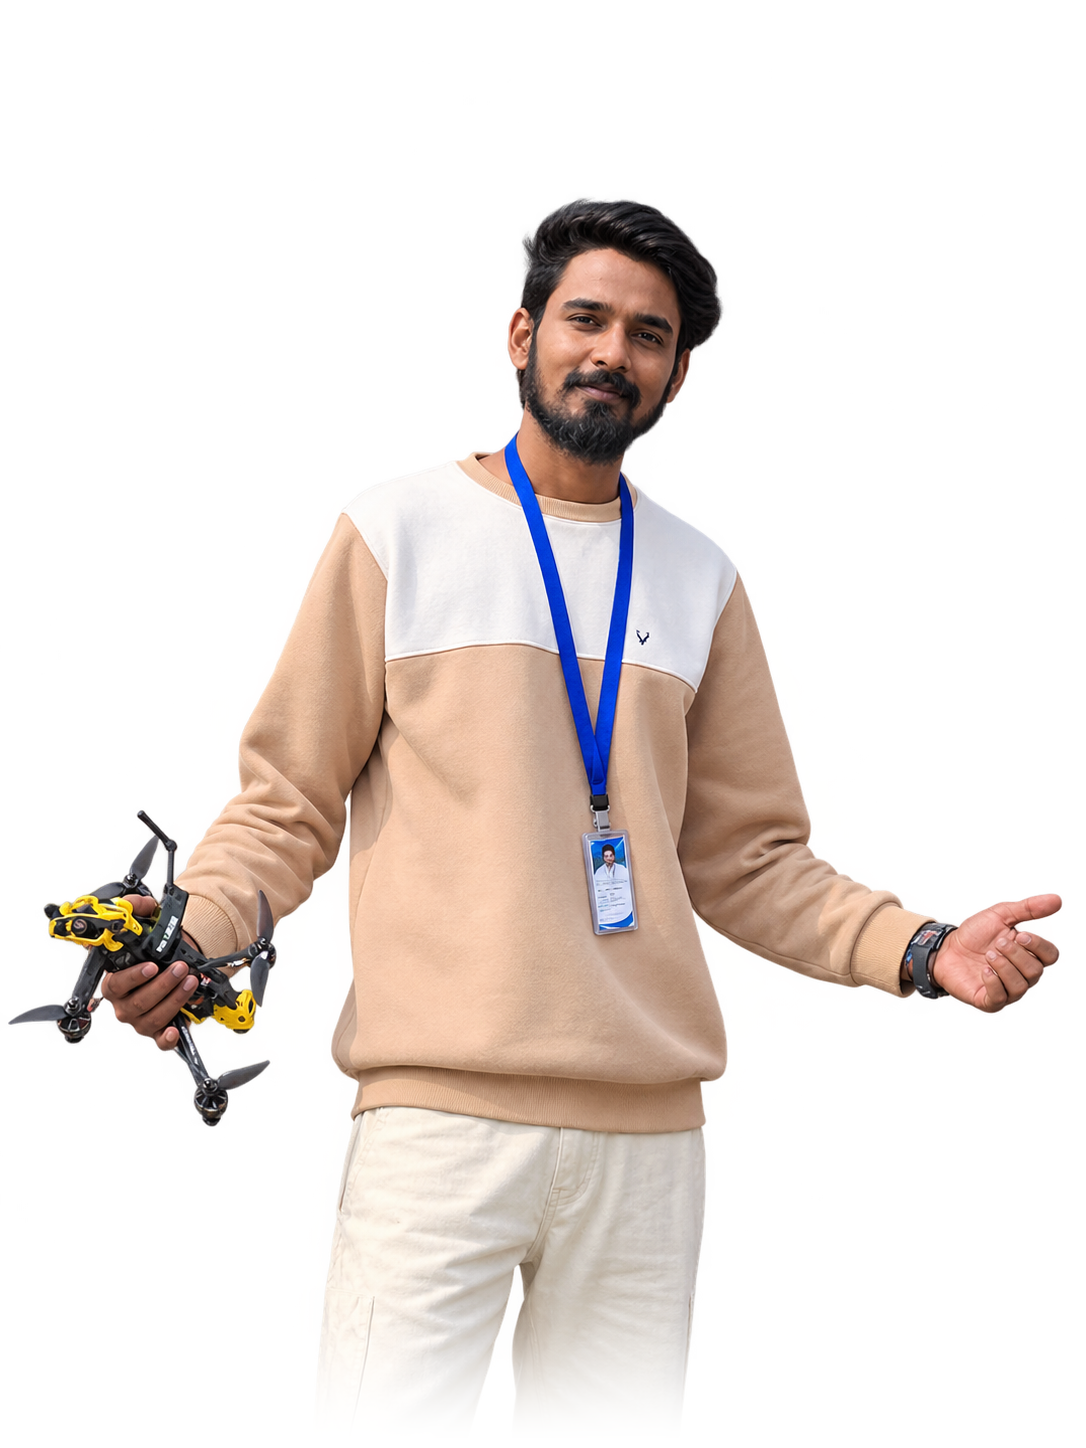
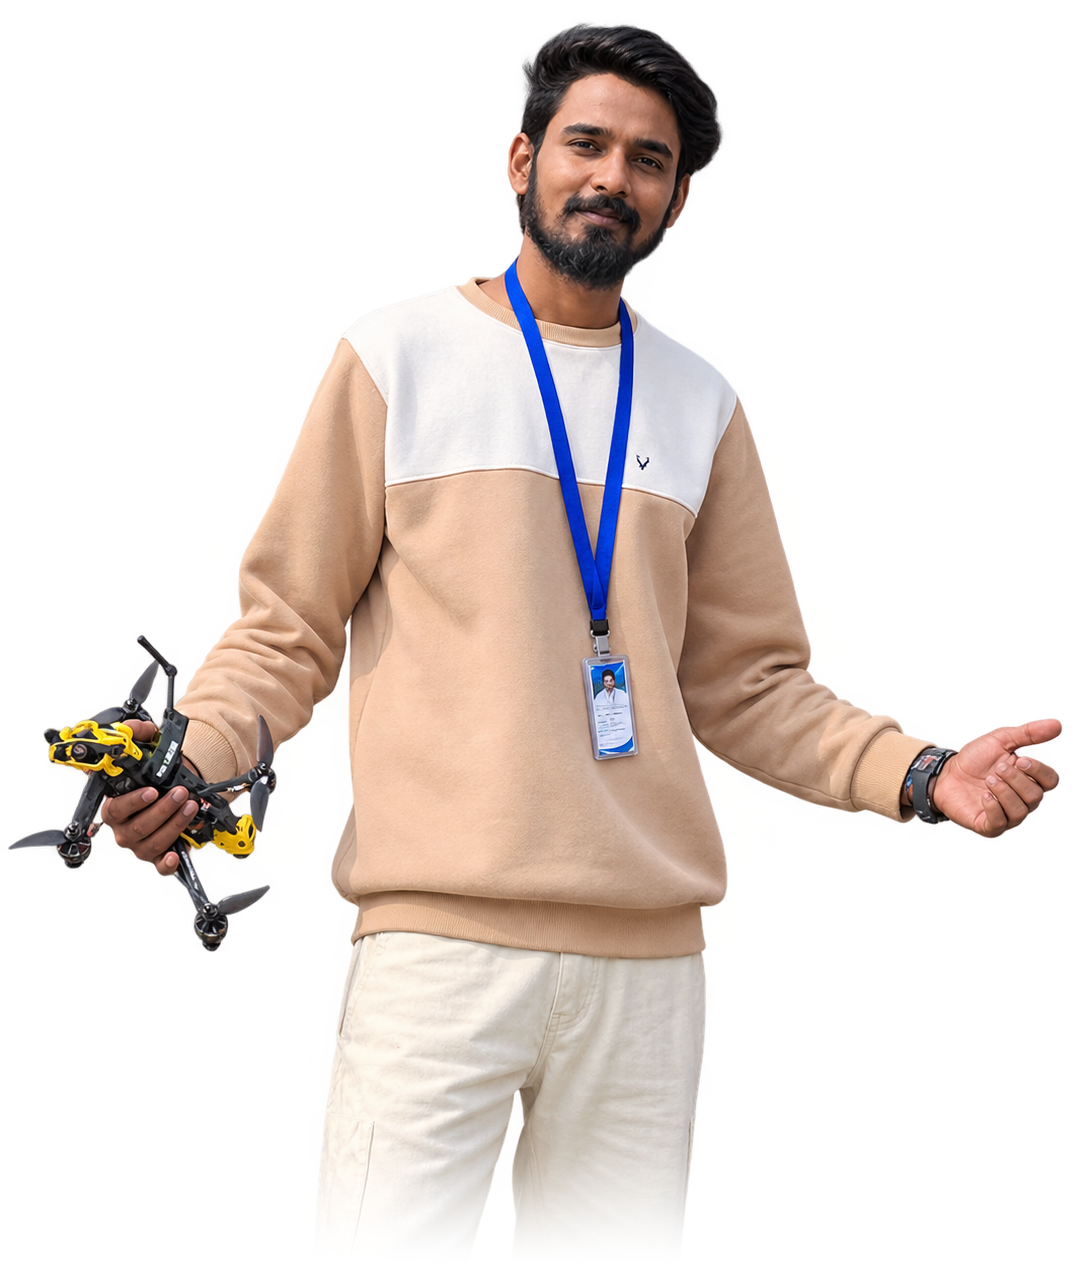
n

Changed region(s): [[0.0, 0.0, 0.9724, 0.9191], [0.6381, 0.8272, 0.6685, 0.8578], [0.395, 0.5208, 0.4254, 0.5515]]

diff --git a/assets/css/styles.css b/assets/css/styles.css
@@ -338,26 +338,32 @@ img {
   justify-self: center;
 }
 
-.home__split {
+.home__profession-1 {
   font-size: var(--h3-font-size);
-  font-weight: var(--font-regular);
   color: var(--first-color);
+  font-family: var(--second-font);
+  font-weight: var(--font-semi-bold);
+  line-height: 1.3;
 }
 
-.home__profession-1,
 .home__profession-2 {
   font-size: var(--bigger-font-size);
-  text-align: center;
-  overflow: hidden;
+  color: var(--title-color);
+  font-family: var(--second-font);
+  font-weight: var(--font-semi-bold);
+  line-height: 1.2;
 }
 
-.home__profession-1 {
-  position: relative;
-  color: var(--first-color);
+.home__description {
+  font-size: var(--small-font-size);
+  line-height: 1.6;
+  color: var(--text-color);
+  margin-top: 0.75rem;
 }
 
-.home__profession-2 {
-  transform: translateY(-0.5rem);
+.home__description b {
+  color: var(--title-color);
+  font-weight: var(--font-semi-bold);
 }
 
 .home__social {
@@ -1173,9 +1179,9 @@ img {
   }
 
   .home__container {
-    max-width: 1200px;
+    max-width: 1280px;
     width: 100%;
-    height: 740px;
+    height: 780px;
     margin-inline: auto;
     position: relative;
     display: flex;
@@ -1186,8 +1192,8 @@ img {
 
   .home__image {
     position: relative;
-    width: 440px;
-    height: 620px;
+    width: 580px;
+    height: 750px;
     margin: 0 auto;
     display: flex;
     justify-content: center;
@@ -1198,8 +1204,8 @@ img {
 
   .home__profile {
     width: auto;
-    max-width: 420px;
-    height: 590px;
+    max-width: 560px;
+    height: 740px;
     object-fit: contain;
     object-position: bottom center;
     filter: drop-shadow(0 20px 45px rgba(0, 0, 0, 0.75));
@@ -1208,14 +1214,14 @@ img {
   }
 
   .home__image .blob-animate {
-    width: 450px;
-    height: 450px;
+    width: 540px;
+    height: 540px;
     position: absolute;
     left: 50%;
-    top: 48%;
+    top: 45%;
     transform: translate(-50%, -50%);
     border-radius: 50%;
-    filter: blur(60px);
+    filter: blur(65px);
     z-index: -1;
   }
 
@@ -1236,11 +1242,11 @@ img {
 
   .home__data {
     position: absolute;
-    top: 42%;
-    left: 1.5rem;
+    top: 38%;
+    left: 0.5rem;
     transform: translateY(-50%);
     z-index: 3;
-    max-width: 320px;
+    max-width: 330px;
     text-align: left;
   }
 
@@ -1262,30 +1268,22 @@ img {
 
   .home__info {
     position: absolute;
-    top: 42%;
-    right: 1.5rem;
+    top: 40%;
+    right: 0.5rem;
     transform: translateY(-50%);
     z-index: 3;
-    max-width: 360px;
+    max-width: 380px;
     text-align: left;
   }
 
-  .home__split {
-    font-size: var(--h3-font-size);
-    font-weight: var(--font-regular);
-    color: var(--first-color);
-    margin-bottom: 0.25rem;
-    letter-spacing: 0.5px;
-  }
-
   .home__profession-1 {
-    font-size: 2.1rem;
+    font-size: 1.55rem;
     font-family: var(--second-font);
     font-weight: var(--font-semi-bold);
     color: var(--first-color);
-    white-space: nowrap;
-    line-height: 1.2;
+    line-height: 1.25;
     position: relative;
+    letter-spacing: 0.5px;
   }
 
   .home__profession-1::after {
@@ -1293,13 +1291,25 @@ img {
   }
 
   .home__profession-2 {
-    font-size: 2.85rem;
+    font-size: 2.35rem;
     font-family: var(--second-font);
     font-weight: var(--font-semi-bold);
     color: var(--title-color);
     line-height: 1.15;
     transform: none;
     margin-top: 0.25rem;
+  }
+
+  .home__description {
+    font-size: 0.925rem;
+    line-height: 1.65;
+    color: var(--text-color);
+    margin-top: 1.15rem;
+  }
+
+  .home__description b {
+    color: var(--title-color);
+    font-weight: var(--font-semi-bold);
   }
 
   .home__social {

diff --git a/index.html b/index.html
@@ -45,9 +45,6 @@
 
           <ul class="nav__list">
             <li>
-              <a href="#about" class="nav__link">About Me</a>
-            </li>
-            <li>
               <a href="#projects" class="nav__link">Projects</a>
             </li>
             <li>
@@ -106,9 +103,14 @@
           </div>
 
           <div class="home__info">
-            <h3 class="home__split">Creative</h3>
-            <h2 class="home__profession-1">Electronics &amp; UAV</h2>
+            <h2 class="home__profession-1">Electronics &amp; Communication</h2>
             <h2 class="home__profession-2">Engineer</h2>
+            <p class="home__description">
+              I'm an <b>Electronics &amp; Communication Engineer</b> passionate about designing
+              <b>autonomous UAVs, embedded systems, custom PCBs, and robotics</b>.
+              Driven by curiosity and hands-on fabrication, I specialize in flight avionics,
+              sensor fusion, and Verilog RTL modeling for robust hardware solutions.
+            </p>
           </div>
 
           <div class="home__social">
@@ -159,45 +161,6 @@
             class="home__cv"
             >Resume <i class="ri-file-list-2-line"></i
           ></a>
-        </div>
-      </section>
-
-      <!-- ABOUT -->
-      <section class="about section" id="about">
-        <div class="about__shadow"></div>
-
-        <div class="about__container container grid">
-          <div class="about__data">
-            <h2 class="section__title">
-              <span>Hardware &amp; UAVs</span>
-              <br />
-              Are My Passion
-            </h2>
-            <p class="about__description">
-              I'm an <b>Electronics &amp; Communication Engineer</b> passionate about designing
-              <b>autonomous UAVs, embedded systems, custom PCBs, and robotics</b>.
-              Driven by curiosity and hands-on fabrication, I specialize in flight avionics,
-              sensor fusion, and Verilog RTL modeling for robust hardware solutions.
-            </p>
-
-            <a
-              href="Manjit_Chakraborty_Resume.pdf"
-              download
-              target="_blank"
-              class="button"
-              >Resume <i class="ri-file-list-2-line"></i
-            ></a>
-          </div>
-
-          <div class="about__image">
-            <div class="blob-animate"></div>
-            <div class="blob-animate"></div>
-            <img
-              src="profile.png"
-              alt="Manjit Chakraborty"
-              class="about__profile"
-            />
-          </div>
         </div>
       </section>
 

diff --git a/assets/js/main.js b/assets/js/main.js
@@ -31,43 +31,9 @@ document.addEventListener("DOMContentLoaded", () => {
   });
 
   /* -------------------------------------------------------------------------
-     2. Home Split Text Animation (Anime.js)
+     2. Static Hero Title (No Animation Loop)
      ------------------------------------------------------------------------- */
-  try {
-    if (typeof anime !== "undefined" && anime.text && anime.animate) {
-      const { animate, text, stagger } = anime;
-
-      const prof1 = document.querySelector(".home__profession-1");
-      const prof2 = document.querySelector(".home__profession-2");
-
-      if (prof1 && prof2) {
-        const { chars: chars1 } = text.split(".home__profession-1", { chars: true });
-        const { chars: chars2 } = text.split(".home__profession-2", { chars: true });
-
-        if (chars1 && chars1.length > 0) {
-          animate(chars1, {
-            y: [{ to: ["100%", "0%"] }, { to: "-100%", delay: 4000, ease: "in(3)" }],
-            duration: 900,
-            ease: "out(3)",
-            delay: stagger(70),
-            loop: true,
-          });
-        }
-
-        if (chars2 && chars2.length > 0) {
-          animate(chars2, {
-            y: [{ to: ["100%", "0%"] }, { to: "-100%", delay: 4000, ease: "in(3)" }],
-            duration: 900,
-            ease: "out(3)",
-            delay: stagger(70),
-            loop: true,
-          });
-        }
-      }
-    }
-  } catch (err) {
-    console.warn("Anime.js text animation notice:", err);
-  }
+  // Title remains crisp, clean and fixed as requested
 
   /* -------------------------------------------------------------------------
      3. Swiper Projects Carousel
